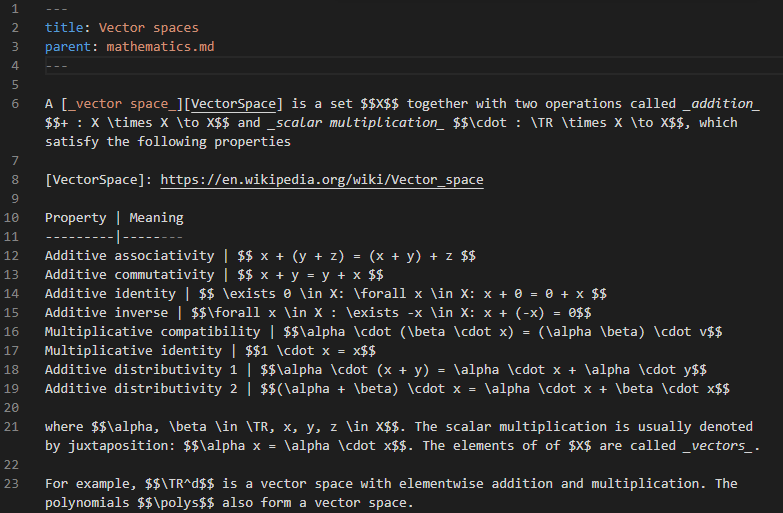
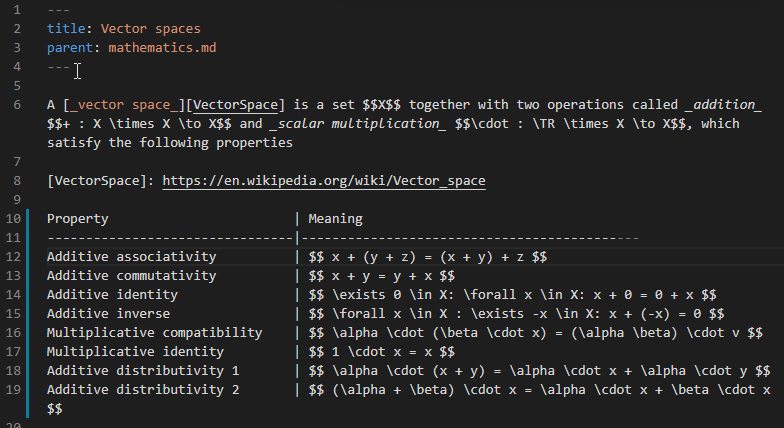
Updated pages.

Changed region(s): [[0.0, 0.1822, 0.9808, 1.0], [0.0613, 0.0, 0.2759, 0.1215], [0.0, 0.0, 0.0307, 0.2126]]

diff --git a/_pages/geometry/vector-spaces.md b/_pages/geometry/vector-spaces.md
@@ -7,16 +7,16 @@ A [_vector space_][VectorSpace] is a set $$X$$ together with two operations call
 
 [VectorSpace]: https://en.wikipedia.org/wiki/Vector_space
 
-Property | Meaning
----------|--------
-Additive associativity | $$ x + (y + z) = (x + y) + z $$
-Additive commutativity | $$ x + y = y + x $$
-Additive identity | $$ \exists 0 \in X: \forall x \in X: x + 0 = 0 + x $$
-Additive inverse | $$\forall x \in X : \exists -x \in X: x + (-x) = 0$$
-Multiplicative compatibility | $$\alpha \cdot (\beta \cdot x) = (\alpha \beta) \cdot v$$
-Multiplicative identity | $$1 \cdot x = x$$
-Additive distributivity 1 | $$\alpha \cdot (x + y) = \alpha \cdot x + \alpha \cdot y$$
-Additive distributivity 2 | $$(\alpha + \beta) \cdot x = \alpha \cdot x + \beta \cdot x$$
+Property                        | Meaning
+--------------------------------|--------------------------------------------
+Additive associativity          | $$ x + (y + z) = (x + y) + z $$
+Additive commutativity          | $$ x + y = y + x $$
+Additive identity               | $$ \exists 0 \in X: \forall x \in X: x + 0 = 0 + x $$
+Additive inverse                | $$ \forall x \in X : \exists -x \in X: x + (-x) = 0 $$
+Multiplicative compatibility    | $$ \alpha \cdot (\beta \cdot x) = (\alpha \beta) \cdot v $$
+Multiplicative identity         | $$ 1 \cdot x = x $$
+Additive distributivity 1       | $$ \alpha \cdot (x + y) = \alpha \cdot x + \alpha \cdot y $$
+Additive distributivity 2       | $$ (\alpha + \beta) \cdot x = \alpha \cdot x + \beta \cdot x $$
 
 where $$\alpha, \beta \in \TR, x, y, z \in X$$. The scalar multiplication is usually denoted by juxtaposition: $$\alpha x = \alpha \cdot x$$. The elements of of $X$ are called _vectors_.
 
